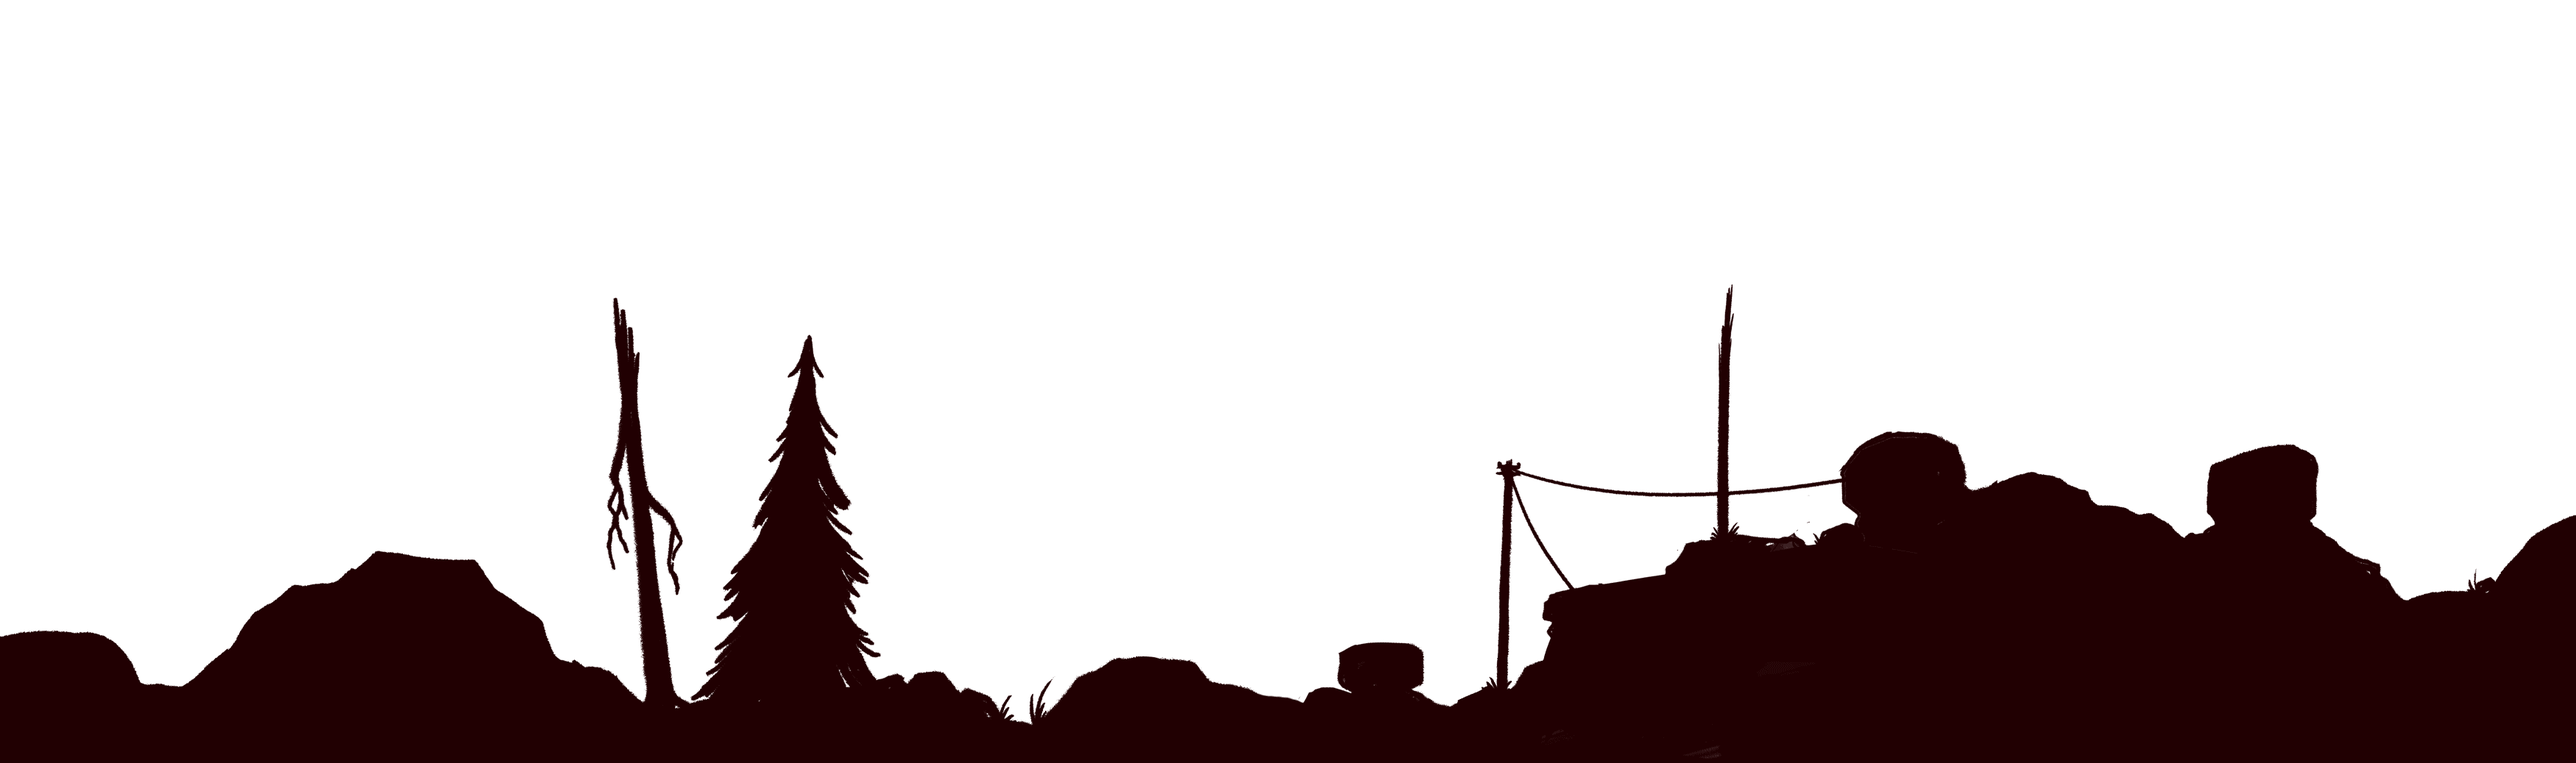
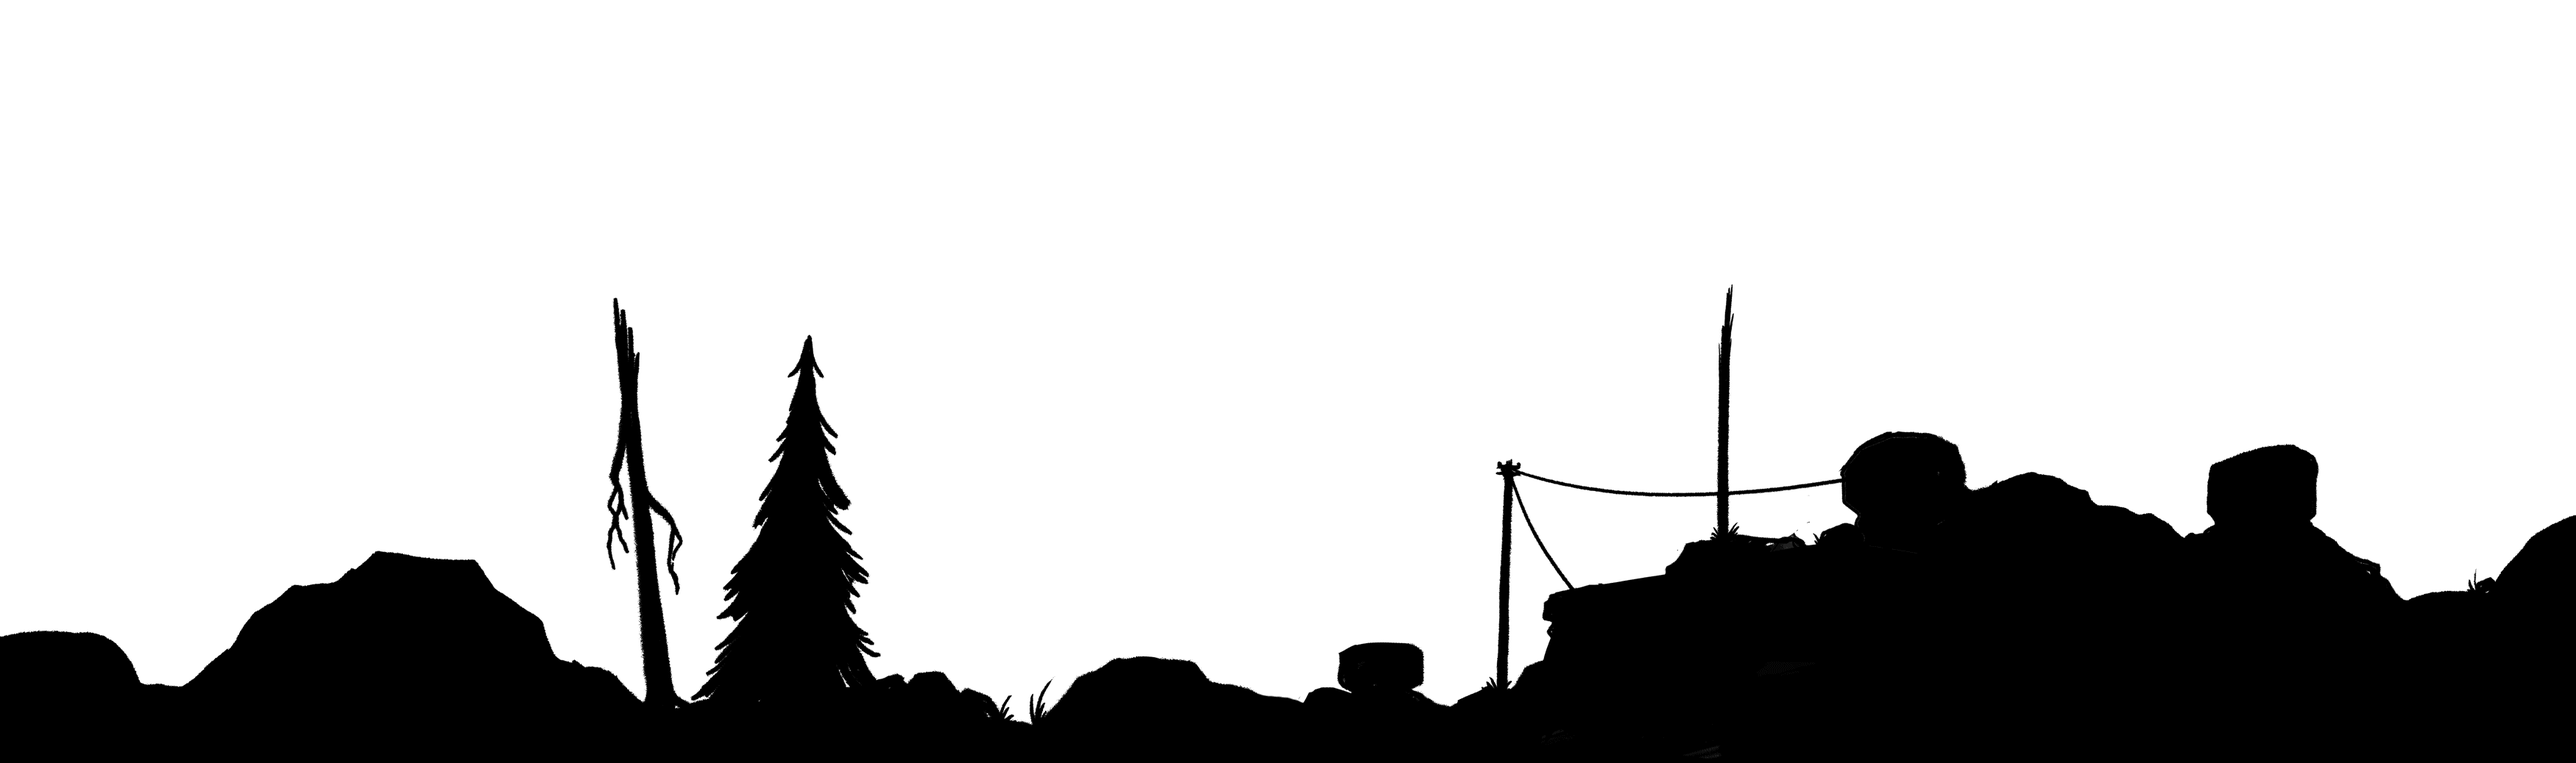
Change colour scheme to black

Changed region(s): [[0.0, 0.4008, 1.0, 1.0], [0.5606, 0.6166, 0.6229, 0.6782]]

diff --git a/src/landing/titlepage.css b/src/landing/titlepage.css
@@ -13,14 +13,15 @@
 
 #name h1{
   font-size: 6rem;
+  z-index: 50;
 }
 
 .titletext {
-  color: #210002;
+  color: black;
 }
 
 #links {
-  color: #210002;
+  color: black;
   position: fixed;
   top:40vh;
   text-align: center;
@@ -28,9 +29,9 @@
   transform: translateX(-50%);
 }
 
-.brownbtn {
-  color: #210002;
-  border-color: #210002;
+.black-btn {
+  color: black;
+  border-color: black;
   display: block;
   margin: auto;
   margin-top: 5vh;
@@ -41,17 +42,9 @@
 #links a {
   text-decoration: none;
 }
-.brownbtn:hover, .brownbtn:active, .brownbtn.active, .open {
-  background-color: #210002;
+.black-btn:hover, .black-btn:active, .black-btn.active, .open {
+  background-color: black;
 }
-
-/*.brownbtn:active {
-  box-shadow: none;
-}
-
-.brownbtn:active:focus {
-  background-color: #210002;
-}*/
 
 .keyart, .keyart_layer {
   height: 1000px;
@@ -114,6 +107,7 @@
   }
   #keyart-8 {
     background-image: url('../resources/parallax/parallax8.png');
+    z-index: 1000;
   }
   #keyart-scrim {
     background-color: #ffaf00;

diff --git a/src/landing/titlepage.js b/src/landing/titlepage.js
@@ -9,11 +9,11 @@ class TitlePage extends React.Component {
 				<div class="titletext" id="name"><h1>JIMMY QI</h1></div>
 				<div id="links">
 					<div id="resume-btn">
-						<a href={require("../resources/resume.pdf")}><button type="button" class="brownbtn btn btn-outline-secondary">Resume</button></a>
+						<a href={require("../resources/resume.pdf")}><button type="button" class="black-btn btn btn-outline-secondary">Resume</button></a>
 					</div>
 					<div id="portfolio-btn">
 						<Link to="/portfolio">
-							<button type="button" class="brownbtn btn btn-outline-secondary">Portfolio</button>
+							<button type="button" class="black-btn btn btn-outline-secondary">Portfolio</button>
 						</Link>
 					</div>
 				</div>

diff --git a/src/landing/aboutpage.css b/src/landing/aboutpage.css
@@ -1,5 +1,5 @@
 #about {
-	background-color: #210002;
+	background-color: black;
 	width: 100%;
 	/*height: 100vh;*/
 	display: inline-block;

diff --git a/src/App.css b/src/App.css
@@ -1,3 +1,3 @@
 body {
-  background-color: #210002;
+  background-color: black;
 }
